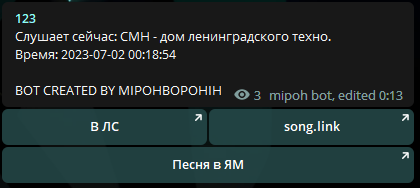
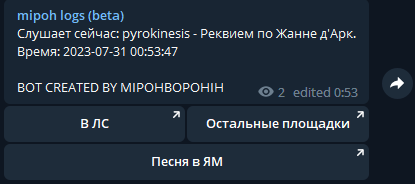
added inline

diff --git a/ymmbbot.py b/ymmbbot.py
@@ -1,20 +1,20 @@
-from asyncio import sleep, get_event_loop
 import datetime
+from asyncio import get_event_loop, sleep
+from io import BytesIO
+from warnings import filterwarnings
+import pylast
 from aiogram import Bot, Dispatcher, types
 from aiogram.contrib.fsm_storage.memory import MemoryStorage
-from aiogram.types import InlineKeyboardMarkup, InlineKeyboardButton
+from aiogram.types import InlineKeyboardButton, InlineKeyboardMarkup
 from aiogram.utils import executor
 from yandex_music import ClientAsync as Client
-import pylast
+from aiogram.types import *
 import config
-from io import BytesIO
 from limited import LimitedDict
-from warnings import filterwarnings
 
 BOT_TOKEN = config.BOT_TOKEN
 YANDEX_MUSIC_TOKEN = config.YANDEX_MUSIC_TOKEN
 YOUR_CHANNEL = config.YOUR_CHANNEL
-YOUR_URL = config.YOUR_URL
 LASTFM_API_KEY = config.LASTFM_API_KEY
 LASTFM_API_SECRET = config.LASTFM_API_SECRET
 LASTFM_USERNAME = config.LASTFM_USERNAME
@@ -26,7 +26,12 @@ storage = MemoryStorage()
 dp = Dispatcher(bot, storage=storage)
 
 client = Client(YANDEX_MUSIC_TOKEN)
-network = pylast.LastFMNetwork(api_key=LASTFM_API_KEY, api_secret=LASTFM_API_SECRET)
+try:
+    network = pylast.LastFMNetwork(
+        api_key=LASTFM_API_KEY, api_secret=LASTFM_API_SECRET)
+    last_fm_connected = True
+except Exception:
+    last_fm_connected = False
 
 filterwarnings("ignore", category=DeprecationWarning)
 
@@ -40,26 +45,32 @@ async def get_track_bytes() -> bytes:
 async def get_music():
     global last_track
     while True:
-        try:
+        if last_fm_connected:
+            try:
+                queues = await client.queues_list()
+                last_queue = await client.queue(queues[0].id)
+                last_track_id = last_queue.get_current_track()
+                last_track = await last_track_id.fetch_track_async()
+            except Exception:
+                user = network.get_user(LASTFM_USERNAME)
+                now_playing = user.get_now_playing()
+                try:
+                    artist = now_playing.get_artist().get_name()
+                    title = now_playing.get_title()
+                    searching_track = await client.search(f'{artist} {title}')
+                    last_track = searching_track['best']['result']
+                except Exception:
+                    recent_tracks = user.get_recent_tracks(limit=1)
+                    track = recent_tracks[0].track
+                    artist = track.artist.name
+                    title = track.title
+                    searching_track = await client.search(f'{artist} {title}')
+                    last_track = searching_track['best']['result']
+        else:
             queues = await client.queues_list()
             last_queue = await client.queue(queues[0].id)
             last_track_id = last_queue.get_current_track()
             last_track = await last_track_id.fetch_track_async()
-        except:
-            user = network.get_user(LASTFM_USERNAME)
-            now_playing = user.get_now_playing()
-            try:
-                artist = now_playing.get_artist().get_name()
-                title = now_playing.get_title()
-                searching_track = await client.search(f'{artist} {title}')
-                last_track = searching_track['best']['result']
-            except:
-                recent_tracks = user.get_recent_tracks(limit=1)
-                track = recent_tracks[0].track
-                artist = track.artist.name
-                title = track.title
-                searching_track = await client.search(f'{artist} {title}')
-                last_track = searching_track['best']['result']
         await sleep(10)
 
 
@@ -85,7 +96,7 @@ async def get_artist(last_track) -> str:
 
 
 async def get_downloadlink(last_track) -> str:
-    download_info = last_track.get_download_info(get_direct_links=True)
+    download_info = await last_track.get_download_info_async(get_direct_links=True)
     direct_link = download_info[0].direct_link
     return direct_link
 
@@ -110,9 +121,12 @@ async def send_message_every_minute() -> None:
             await sleep(3)
             continue
         inline_btn_1 = InlineKeyboardButton('В ЛС', url=YOUR_URL)
-        inline_btn_2 = InlineKeyboardButton('song.link', url=f'https://song.link/ya/{last_track_id}')
-        inline_btn_3 = InlineKeyboardButton('Песня в ЯМ', url=f'https://music.yandex.ru/track/{last_track_id}')
-        inline_keyboard = InlineKeyboardMarkup(row_width=2).add(inline_btn_1, inline_btn_2, inline_btn_3)
+        inline_btn_2 = InlineKeyboardButton(
+            'Остальные площадки', url=f'https://song.link/ya/{last_track.id}')
+        inline_btn_3 = InlineKeyboardButton(
+            'Песня в ЯМ', url=f'https://music.yandex.ru/track/{last_track.id}')
+        inline_keyboard = InlineKeyboardMarkup(row_width=2).add(
+            inline_btn_1, inline_btn_2, inline_btn_3)
         for user in USERS:
             chat_id = user['chat_username']
             message_id = user['message_id']
@@ -139,10 +153,45 @@ async def process_start_command(message: types.Message):
     await message_reply.delete()
 
 
-async def on_startup(dp):
+@dp.inline_handler()
+async def handle_inline_query(inline_query: types.InlineQuery):
+    inline_btn_1 = InlineKeyboardButton('В ЛС', url=YOUR_URL)
+    inline_btn_2 = InlineKeyboardButton(
+        'Остальные площадки', url=f'https://song.link/ya/{last_track.id}')
+    inline_btn_3 = InlineKeyboardButton(
+        'Песня в ЯМ', url=f'https://music.yandex.ru/track/{last_track.id}')
+    inline_keyboard = InlineKeyboardMarkup(row_width=1).add(
+        inline_btn_1, inline_btn_2, inline_btn_3)
+    audio = await get_downloadlink(last_track)
+    artist = await get_artists(last_track)
+    title = last_track.title
+    duration = last_track.duration_ms // 1000
+    minutes = duration // 60
+    seconds = duration % 60
+    duration_formatted = f"{minutes}:{seconds:02}"
+    response_message = f"Ты слушаешь сейчас: {artist} - {title} ({duration_formatted})"
+    result_id = '1'
+    result = types.InlineQueryResultAudio(
+        id=result_id,
+        audio_url=audio,
+        title=title,
+        performer=artist,
+        audio_duration=duration,
+        caption=response_message,
+        reply_markup=inline_keyboard
+    )
+
+    await bot.answer_inline_query(inline_query.id, results=[result], cache_time=1)
+
+
+async def on_startup(dp: Dispatcher) -> None:
+    global YOUR_URL
     await client.init()
+    me = await bot.get_me()
+    YOUR_URL = f"https://t.me/{me.username}?start"
     message = await bot.send_message(chat_id=YOUR_CHANNEL, text='BOT CREATED BY MIPOHBOPOHIH')
-    USERS.append({'chat_username': YOUR_CHANNEL, 'message_id': message.message_id})
+    USERS.append({'chat_username': YOUR_CHANNEL,
+                  'message_id': message.message_id})
 
 
 if __name__ == '__main__':

diff --git a/config.py b/config.py
@@ -1,7 +1,6 @@
 BOT_TOKEN = ''  # Токен от @BotFather
 YANDEX_MUSIC_TOKEN = ''  # Токен от Yandex-music-api
 YOUR_CHANNEL = '@EXAMPLECHANNEL'  # Id канала/Username канала, куда надо отправлять текст. Пример: '@examplechannel'
-YOUR_URL = 'https://t.me/BOT_USERNAME?start'  # Вместо BOT_USERNAME вставьте username вашего бота. Пример: https://t.me/testbot?start
 LASTFM_API_KEY = ''  # Api-key от last.fm
 LASTFM_API_SECRET = ''  # Secret api-key от last.fm
 LASTFM_USERNAME = ''  # Ваш username на last.fm

diff --git a/README.md b/README.md
@@ -1,19 +1,41 @@
-# YMMBBot *Yandex Music MipohBopohih Bot*
+<p align="center">
+    <img width="248" height="250" src="images/logo.png">
+</p>
 
-## YMMBBot основан на базе моего прошлого бота, [lastbot](https://codeberg.org/MIPOHBOPOHIH/Lastbot), если вам нужен практически такой же бот, только для Last.fm, можете взглянуть на него
+# YMMBBot
 
+Простой бот для отображения текущей песни 
 
-### Теперь бот поддерживает "Мою волну"! Для этого используется [last.fm](https://last.fm)
-###  Бот отправляет в указанный телеграм канал обновляющееся сообщение, которое включает в себя текущую песню(Автор - Название песни), а в кнопке ниже - переход в ЛС к боту, который отправляет текст текущей песни.
+**Поддерживается Моя Волна Через Last.fm**
 
-# Как запустить:
-1. Скачайте проект и разархивируйте проект.
-2. Откройте терминал внутри папки и установите все библиотеки. Вы можете это сделать при помощи
-`pip install -r requirements.txt`
-3. Заполните `config.py`, там всё довольно подробно описано что и куда вставлять.
-4. Запустите бота, можете сделать в терминале введя `python ymmbbot.py`
+# Как использовать?:
+Сначала, вам надо установить Python и зависимости бота. Позже - создать самого бота у [https://t.me/BotFather](@BotFather) 
+и включить у него Inline Mode.
 
-# Примеры:
+## Скачиваем ymmbbot
+```shell
+git clone https://github.com/MIPOHBOPOHIH/ymmbbot
+# Вам надо быть в `ymmbbot` для дальнейшей работы
+cd ymmbbot
+```
+
+## Устанавливаем зависимости
+
+```shell
+# Допустим, вы уже установили питон
+pip install pip --upgrade
+pip install -r requirements.txt
+```
+
+После этого вы должны заполнить `config.py`
+После заполнения читайте следующую главу
+
+## Запускаем
+
+```shell
+python bot.py
+```
+# Картинки-примеры:
 <figure>
     <img src="images/channel.png"
          alt="image1">
@@ -23,4 +45,9 @@
     <img src="images/direct_messages.png"
          alt="image2">
     <figcaption>Ответ бота в личных сообщениях</figcaption>
+</figure>
+<figure>
+    <img src="images/inline.png"
+        alt="image3">
+    <figcaption>Inline в чатах</figcaption>
 </figure>
